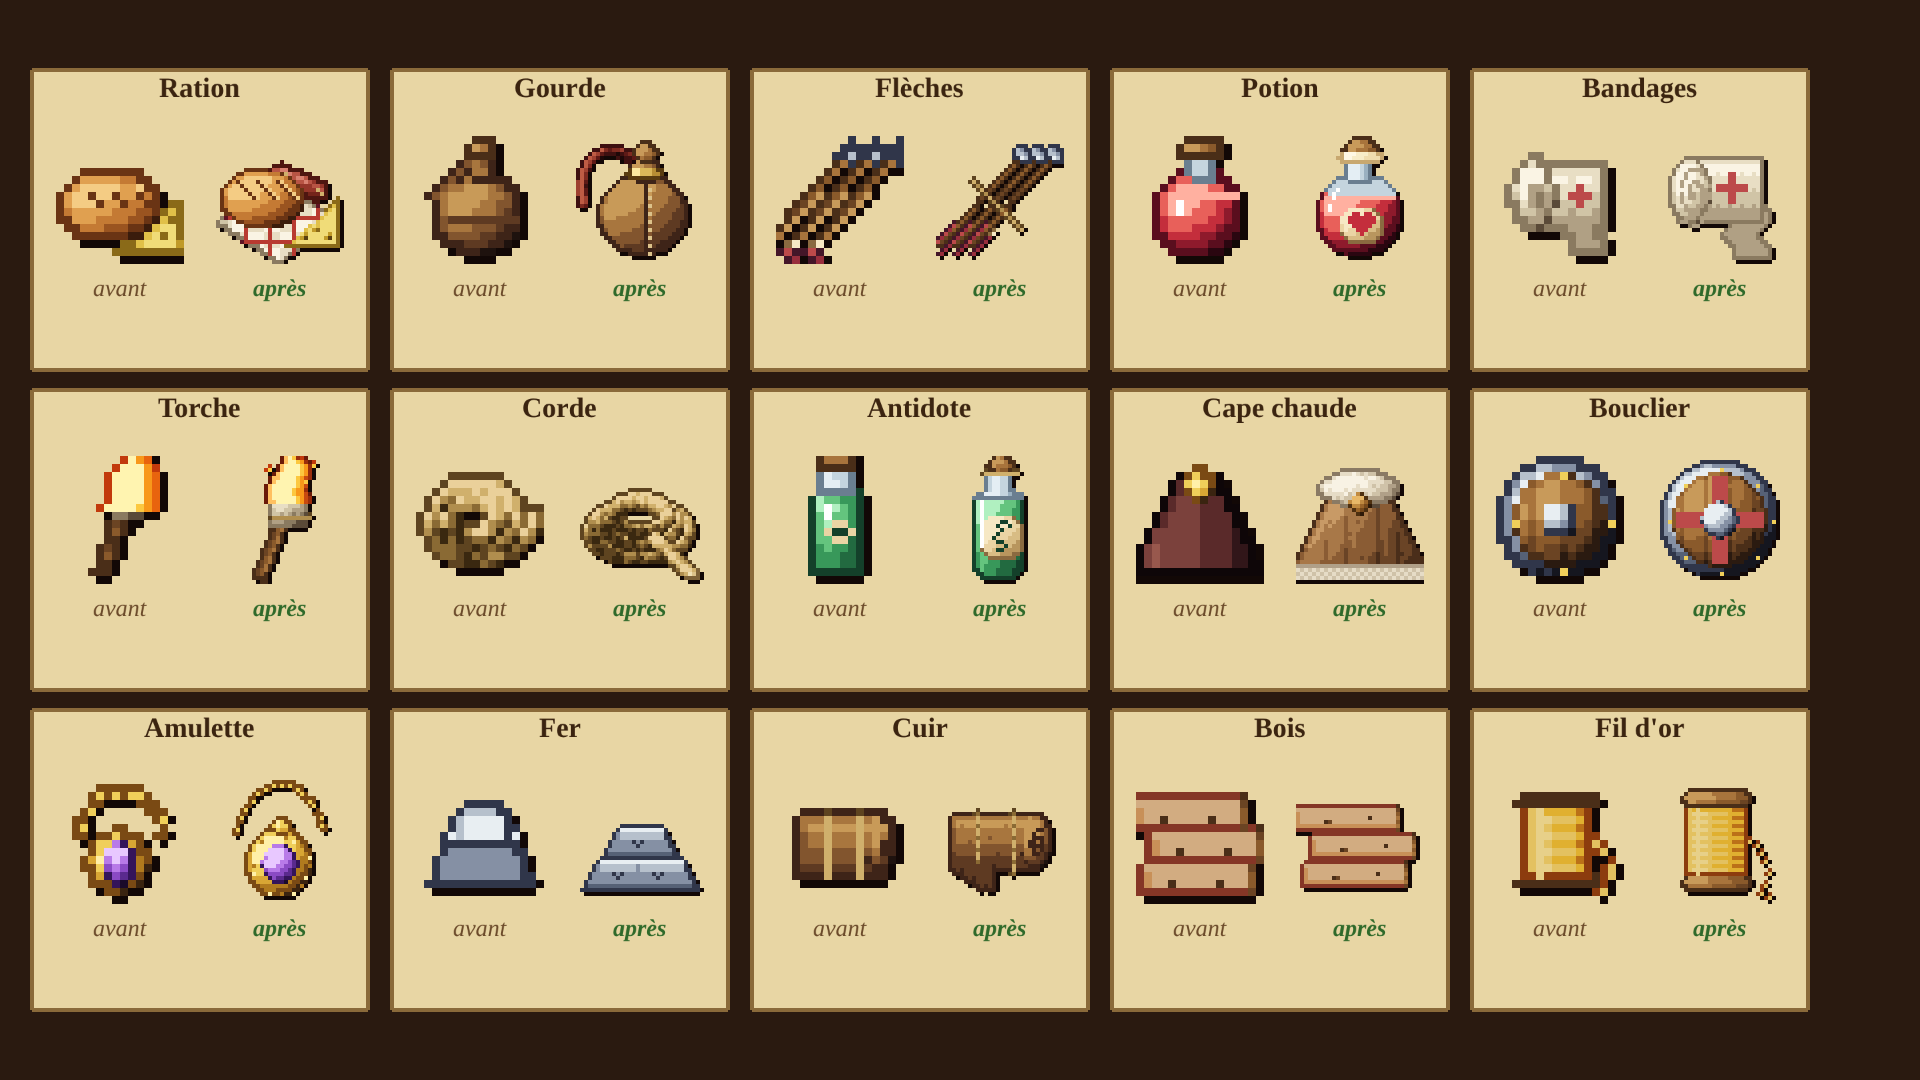
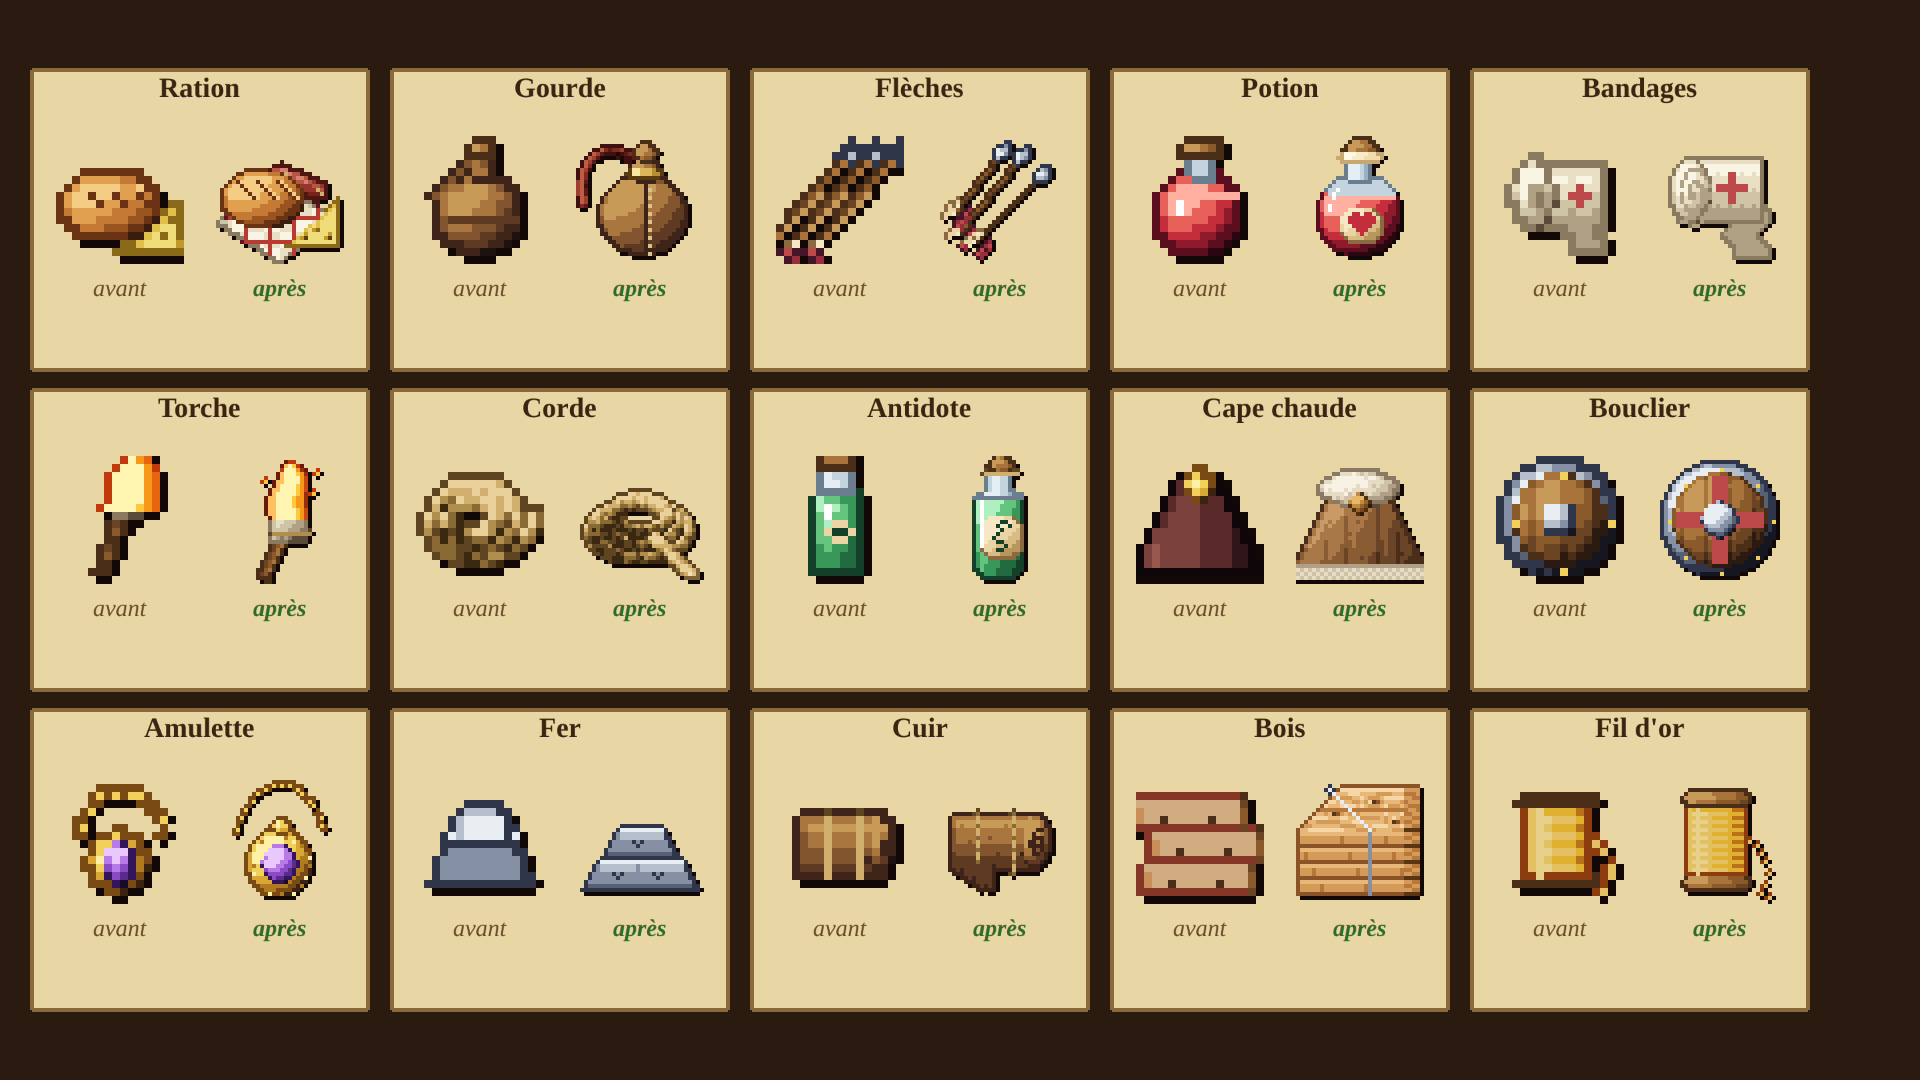
Planche 10 : flèches en éventail, torche entière, bois en pile de planches de pin
Claude-Session: https://claude.ai/code/session_018kbaP56NxxNMUzmj9EfKBC

Changed region(s): [[0.6562, 0.7028, 0.75, 0.8556], [0.4688, 0.1222, 0.5625, 0.2444], [0.125, 0.4278, 0.1875, 0.55]]

diff --git a/src/objetsHD32.js b/src/objetsHD32.js
@@ -68,14 +68,20 @@ const DESSINS_OBJETS_32 = {
   },
   // Les flèches : une botte de trois flèches liée d'une ficelle, empennes rouges et blanches, pointes de fer
   fleches(t) {
-    for (const d of [-4, 0, 4]) {
-      trait(t, 'chene', 5 + d, 28, 25 + d, 6, 0.7, { decalage: 0.4 });
-      // la pointe de fer, en losange
-      t.forme('metal', (x, y) => { const u = (x + 0.5 - (26 + d)) * 0.74 - (y + 0.5 - 5) * -0.67, v = (x + 0.5 - (26 + d)) * 0.67 + (y + 0.5 - 5) * -0.74; return Math.abs(u) / 3.4 + Math.abs(v) / 1.8 <= 1 ? [u / 4, v / 2, 0.8] : null; }, { decalage: 0.5 });
-      // l'empenne : deux plumes
-      for (let k = 0; k < 5; k++) { t.poser(4 + d + k, 26 - k, 'tissuRouge', 4 - (k % 2)); t.poser(6 + d + k, 28 - k, 'parchemin', 5 - (k % 2)); t.poser(5 + d + k, 29 - k, 'tissuRouge', 3); }
+    // trois flèches en éventail : la hampe de bois, la pointe de fer, l'empenne de plumes rouges et blanches
+    for (const [x0, y0, x1, y1] of [[4, 27, 23, 4], [8, 29, 28, 9], [3, 22, 18, 3]]) {
+      const dx = x1 - x0, dy = y1 - y0, L = Math.hypot(dx, dy), ux = dx / L, uy = dy / L;
+      trait(t, 'chene', x0 + ux * 3, y0 + uy * 3, x1 - ux * 3, y1 - uy * 3, 0.7, { decalage: 0.4 });
+      // la pointe, un losange de fer
+      t.forme('metal', (x, y) => { const px = x + 0.5 - (x1 - ux * 1.5), py = y + 0.5 - (y1 - uy * 1.5); const u = px * ux + py * uy, v = -px * uy + py * ux; return Math.abs(u) / 3.4 + Math.abs(v) / 1.9 <= 1 ? [u / 4, v / 2, 0.8] : null; }, { decalage: 0.5 });
+      // l'empenne : deux plumes de chaque côté de la hampe
+      for (let k = 0; k < 6; k++) {
+        const bx = x0 + ux * (1 + k), by = y0 + uy * (1 + k);
+        t.poser(Math.round(bx - uy * 1.6), Math.round(by + ux * 1.6), 'tissuRouge', 4 - (k % 2));
+        t.poser(Math.round(bx + uy * 1.6), Math.round(by - ux * 1.6), 'parchemin', 5 - (k % 2));
+        if (k < 4) { t.poser(Math.round(bx - uy * 2.6), Math.round(by + ux * 2.6), 'tissuRouge', 3); t.poser(Math.round(bx + uy * 2.6), Math.round(by - ux * 2.6), 'parchemin', 4); }
+      }
     }
-    for (let k = -6; k <= 6; k++) t.poser(15 + k, 18 + Math.round(k * 0.95) - 1, 'chanvre', 4 - (Math.abs(k) % 2));   // la ficelle
   },
   // La potion : une fiole ronde au liquide rouge, un cœur sur l'étiquette (elle rend un cœur),
   // le bouchon scellé de cire
@@ -101,20 +107,21 @@ const DESSINS_OBJETS_32 = {
   },
   // La torche : un manche de bois, le tissu imbibé de poix enroulé et ficelé, une belle flamme
   torche(t) {
-    trait(t, 'chene', 11, 31, 18, 14, 1.6);
-    t.forme('lin', (x, y) => { const u = (x + 0.5 - 18.5), v = (y + 0.5 - 14); return Math.abs(u) < 4.6 && Math.abs(v) < 3.6 ? [u / 5, v / 4, 0.8] : null; }, { decalage: -0.9, motif: (x, y) => ((x + y) % 3 === 0 ? -0.6 : 0) });
-    for (let x = 14; x <= 23; x++) t.poser(x, 15, 'chanvre', 3);
+    trait(t, 'chene', 12, 31, 18, 18, 1.6);
+    t.forme('lin', (x, y) => { const u = (x + 0.5 - 18.5), v = (y + 0.5 - 18); return Math.abs(u) < 4.6 && Math.abs(v) < 3.6 ? [u / 5, v / 4, 0.8] : null; }, { decalage: -0.9, motif: (x, y) => ((x + y) % 3 === 0 ? -0.6 : 0) });
+    for (let x = 14; x <= 23; x++) t.poser(x, 19, 'chanvre', 3);
     t.rampes.flamme2 = RAMPES_OBJETS.flamme;
     const flamme = (k, dx = 0) => (x, y) => {
-      const v = (y + 0.5) / 12.5;
-      const w = 7.5 * k * Math.sqrt(Math.max(0, v)) * (1.15 - v * 0.45);
-      const nx = (x + 0.5 - 18.5 - dx - (1 - v) * 2 * Math.sin(v * 6)) / Math.max(0.5, w);
-      return y < 12 && Math.abs(nx) <= 1 ? [nx, -0.3, 0.9] : null;
+      const v = (y + 0.5 - 2) / 14;   // (la pointe à 2 pixels du bord : elle n'est plus coupée)
+      if (v < 0) return null;
+      const w = 7 * k * Math.sqrt(v) * (1.15 - v * 0.45);
+      const nx = (x + 0.5 - 18.5 - dx - (1 - v) * 1.5 * Math.sin(v * 6)) / Math.max(0.5, w);
+      return y < 16 && Math.abs(nx) <= 1 ? [nx, -0.3, 0.9] : null;
     };
     t.forme('braise', flamme(1), { decalage: -0.3, bord: false });
     t.forme('flamme', flamme(0.72), { decalage: 0.3, bord: false });
     t.forme('flamme', flamme(0.38), { decalage: 1.4, bord: false });
-    for (const [x, y] of [[13, 3], [24, 2], [22, 6]]) t.poser(x, y, 'flamme', 4);   // des étincelles
+    for (const [x, y] of [[12, 6], [25, 4], [24, 9]]) t.poser(x, y, 'flamme', 4);   // des étincelles
   },
   // La corde : une corde de chanvre lovée, ses torons torsadés bien visibles, un bout qui dépasse
   corde(t) {
@@ -188,12 +195,34 @@ const DESSINS_OBJETS_32 = {
   },
   // Le bois : trois belles planches empilées, le fil du bois, les nœuds et les cernes au bout
   bois(t) {
-    t.rampes.planche = rampe(0xc89058);
-    for (const [y, dx] of [[24, 0], [17, 2], [10, -2]]) {
-      t.forme('planche', (x, py) => (py >= y - 2 && py <= y + 3 && x >= 2 + dx && x <= 27 + dx ? [0, (py - y) / 5 - 0.2, 0.85] : null), { motif: (x, py) => (py === y && x % 7 !== 0 ? -0.5 : (py === y + 2 && x % 5 === 2) ? -0.4 : 0) });
-      for (let k = 0; k < 6; k++) t.poser(27 + dx, y - 2 + k, 'chene', k === 0 || k === 5 ? 2 : 4 - (k % 2));
-      t.poser(9 + dx, y + 1, 'chene', 1); t.poser(10 + dx, y + 1, 'chene', 2); t.poser(20 + dx, y, 'chene', 1);
+    // une pile de longues planches de pin, vue de trois quarts comme au dépôt du scieur : le dessus
+    // de la planche du haut, veiné et noueux ; en dessous, les chants des planches empilées ; à
+    // droite, les bouts sciés avec leurs cernes
+    t.rampes.pin = [0x5a3416, 0x8a5428, 0xb8783c, 0xd49a58, 0xe8b878, 0xf6d8a8];
+    const pente = 0.32;   // (les planches fuient un peu vers le fond, à gauche)
+    // le dessus : deux larges planches côte à côte, le fil du bois qui ondule autour des nœuds
+    const noeuds = [[9, 8.5], [19, 6], [24, 10.5]];
+    for (let y = 3; y <= 13; y++) for (let x = Math.round(1 + (13 - y) * pente * 3); x <= 26; x++) {
+      let f = Math.sin(y * 1.9 + Math.sin(x * 0.22) * 2.2);
+      for (const [nx, ny] of noeuds) { const d = Math.hypot(x - nx, (y - ny) * 2); if (d < 4) f = Math.sin(d * 2.2); }
+      t.poser(x, y, 'pin', y === 3 ? 5 : y === 8 ? 2 : f > 0.75 ? 5 : f < -0.6 ? 3 : 4);
     }
+    for (const [nx, ny] of noeuds) { t.poser(nx, Math.round(ny), 'pin', 0); t.poser(nx + 1, Math.round(ny), 'pin', 1); }
+    // les chants : quatre planches empilées, chacune avec sa lumière en haut et son ombre en bas
+    for (let r = 0; r < 4; r++) {
+      const y0 = 14 + r * 4;
+      for (let x = 1; x <= 26; x++) for (let k = 0; k < 4; k++) t.poser(x, y0 + k, 'pin', k === 0 ? 4 : k === 3 ? 1 : ((x * 3 + r * 5) % 11 === 0 ? 2 : 3));
+    }
+    // les bouts sciés, à droite : un peu plus sombres, avec les arcs des cernes
+    for (let r = 0; r < 5; r++) {
+      const y0 = r === 0 ? 3 : 10 + r * 4, h = r === 0 ? 11 : 4;
+      for (let y = y0; y < y0 + h; y++) for (let x = 27; x <= 30; x++) {
+        const cerne = Math.hypot(x - 33, (y - (y0 + h + 2)) * 1.3);
+        t.poser(x, y, 'pin', y === y0 + h - 1 ? 0 : Math.floor(cerne) % 2 ? 3 : 2);
+      }
+    }
+    // le feuillard qui tient la pile, et sa boucle
+    for (let y = 3; y <= 29; y++) t.poser(y <= 13 ? 15 - Math.round((13 - y) * pente * 3) + 3 : 18, y, 'metal', y <= 13 ? 5 : 3);
   },
   // Le fil d'or : une bobine de fil d'or sur son fuseau de bois tourné, un bout qui s'échappe
   filOr(t) {
